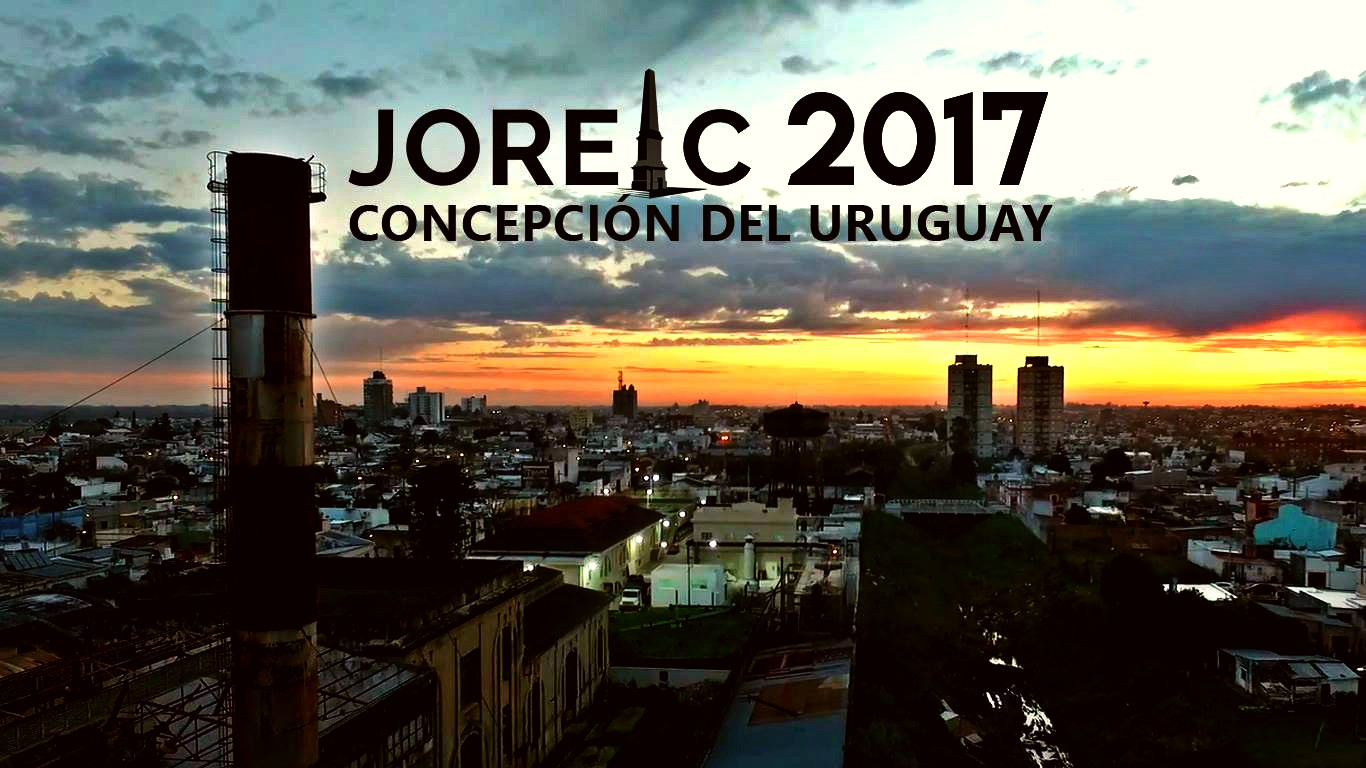
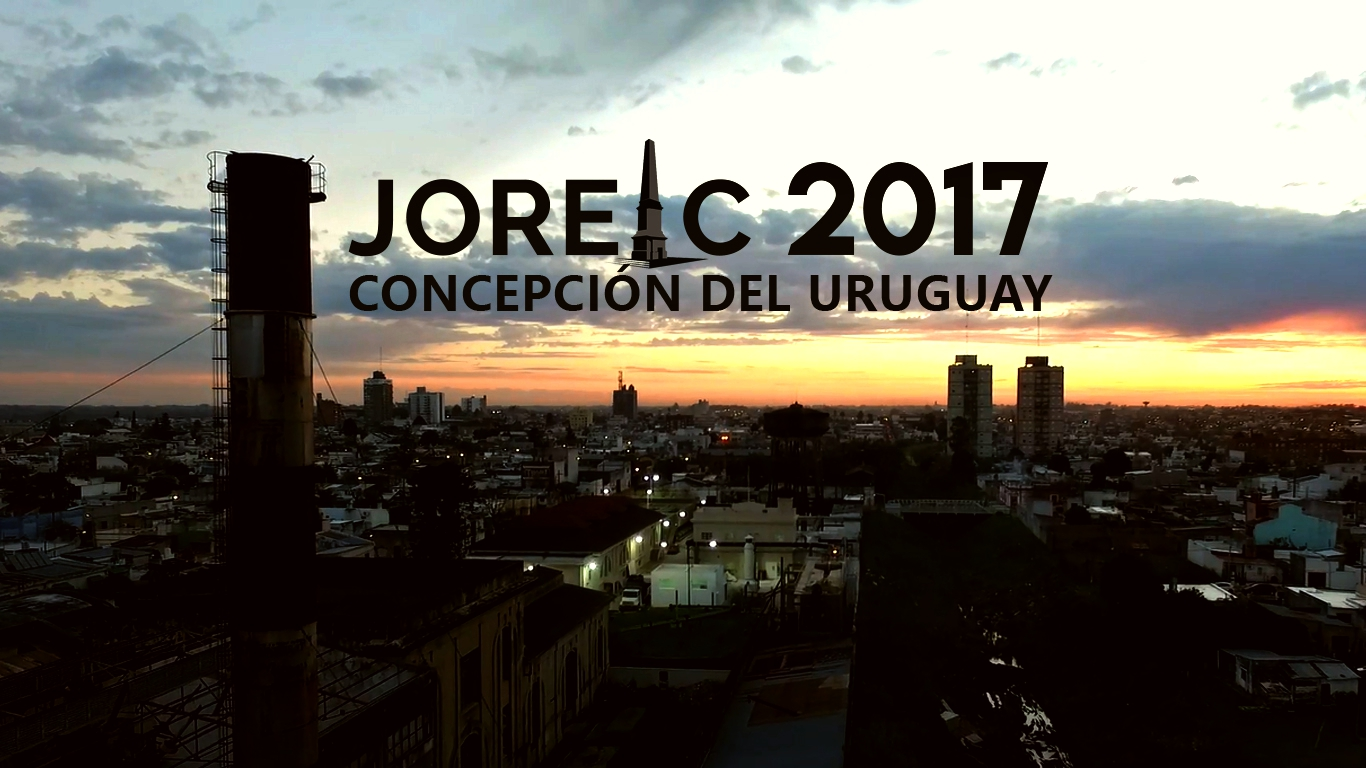
General corrections.
- Ortografic and grammar corrections.
- Text and heading style modified.
- Slider image fixed.

diff --git a/index.html b/index.html
@@ -3,9 +3,10 @@
 <head>
     <meta charset="utf-8">
     <meta http-equiv="X-UA-Compatible" content="IE=edge">
-    <meta name="JOREIC 2017" content="width=device-width, initial-scale=1">
-    <meta name="Sitio web JOREIC 2017" content="">
-    <meta name="" content="">
+    <meta name="viewport" content="width=device-width, initial-scale=1">
+    <meta name="description" content="Sitio web de JOREIC 2017, llevado a cabo por ANEIC Concepción del Uruguay">
+    <meta name="keywords" lang="es" content="jornada, ingeniería, civil, aneic, concepción, uruguay, construcción, madera, ambiental">
+    <META name="author" content="ANEIC Concepción del Uruguay">
     <title>JOREIC 2017 - Concepción del Uruguay</title>
     <link rel="shortcut icon" href="img/logos/favicon-96x96.ico" type="image/x-icon">
     <!-- Bootstrap Core CSS -->
@@ -29,7 +30,7 @@
             <!-- Brand and toggle get grouped for better mobile display -->
             <div class="navbar-header page-scroll">
                 <button type="button" class="navbar-toggle" data-toggle="collapse" data-target="#bs-example-navbar-collapse-1">
-                    <span class="sr-only">Toggle navigation</span> Menu <i class="fa fa-bars"></i>
+                    <span class="sr-only">Toggle navigation</span> Menú <i class="fa fa-bars"></i>
                 </button>
                 <a class="navbar-brand page-scroll" href="#page-top" style="font-family: 'Raleway'">JOREIC</a>
             </div>
@@ -129,7 +130,7 @@
         <div class="container">
             <div class="row">
                 <div class="col-lg-12 text-center">
-                    <h2 class="section-heading text-primary">Quienes somos</h2>
+                    <h2 id="about-title" class="section-heading text-primary">Quiénes somos</h2>
                     <h3 class="section-subheading text-muted">ANEIC Concepción del Uruguay</h3>
                 </div>
                 <div class="row">
@@ -137,11 +138,10 @@
                         <img class="img-responsive" src="img/logos/aneic.jpg"  alt="ANEIC-CdU">
                     </div>
                     <div class="col-lg-8">
-                        <p class="text-muted text-justify">La Asociación Nacional de Estudiantes de Ingeniería Civil (ANEIC) es una organización conformada por estudiantes de ingeniería civil de todo el país; es autónoma, de carácter científico, tecnológico y cultural, sin fines de lucro y ajena a toda actividad política, partidaria o religiosa.</p>
-                        <p class="text-muted text-justify">ANEIC ARGENTINA se posiciona como una agrupación reconocida en la comunidad social, empresarial y universitaria, como referente nacional e internacional de integración, perfeccionamiento y potenciación de los estudiantes de nuestra carrera. Promover la integración académica de todos los estudiantes de ingeniería civil, mediante la planificación, organización y ejecución de eventos nacionales abocados a actividades académicas, de investigación, culturales y deportivas, como así también participar responsablemente en los
+                        <p class=" text-justify">La Asociación Nacional de Estudiantes de Ingeniería Civil (ANEIC) es una organización conformada por estudiantes de ingeniería civil de todo el país; es autónoma, de carácter científico, tecnológico y cultural, sin fines de lucro y ajena a toda actividad política, partidaria o religiosa.</p>
+                        <p class=" text-justify">ANEIC ARGENTINA se posiciona como una agrupación reconocida en la comunidad social, empresarial y universitaria, como referente nacional e internacional de integración, perfeccionamiento y potenciación de los estudiantes de nuestra carrera. Promover la integración académica de todos los estudiantes de ingeniería civil, mediante la planificación, organización y ejecución de eventos nacionales abocados a actividades académicas, de investigación, culturales y deportivas, como así también participar responsablemente en los
 procesos que afectan a la profesión y la sociedad.</p>
-                        <p class="text-muted text-justify">La filial ANEIC CdelU (Concepción del Uruguay) se trata de una organización local ubicada en la región este conformada a principios del año 2016. Dicha filial tiene como objetivo representar a ANEIC Argentina de forma tal que los
-estudiantes tengan conocimiento de la existencia de dicha asociación y que finalmente sean parte de la misma.</p>
+                        <p class=" text-justify">La filial ANEIC CdelU (Concepción del Uruguay) se trata de una organización local ubicada en la región Este conformada a principios del año 2016. Dicha filial tiene como objetivo representar a ANEIC Argentina de forma tal que los estudiantes tengan conocimiento de la existencia de dicha asociación y que finalmente sean parte de la misma.</p>
                     </div>
                 </div>
             </div>
@@ -149,14 +149,14 @@ estudiantes tengan conocimiento de la existencia de dicha asociación y que fina
         <div class="container">
             <div class="row">
                 <div class="col-lg-12 text-center">
-                    <h2 class="section-heading text-primary">JOREIC</h2>
+                    <h2 id="about-title" class="section-heading text-primary">JOREIC</h2>
                     <h3 class="section-subheading text-muted">Jornada Regional de Estudiantes de Ingeniería Civil</h3>
                 </div>
                 <div class="row">
                     <div class="col-lg-8">
-                        <p class="text-muted text-justify">La Jornada Regional de Estudiantes de Ingeniería Civil (JOREIC) es una actividad académica, social y cultural en la que se tratan dos ejes temáticos, electos por comisión organizadora, expuestos por distintos profesionales.</p>
-                        <p class="text-muted text-justify">Anteriormente, se realizó la primer Jornada de la región, la cual tuvo lugar en la Ciudad Autónoma de Buenos Aires, esto fue un disparador para que la organización siga creciendo y afianzándose. Gracias a esto, la filial de Concepción del Uruguay se postuló y fue seleccionada para la Segunda Jornada de la Región Este a desarrollarse en la ciudad de Concepción del Uruguay los días 18, 19 y 20 de mayo del año 2017.</p>
-                        <p class="text-muted text-justify"></p>
+                        <p class=" text-justify">La Jornada Regional de Estudiantes de Ingeniería Civil (JOREIC) es una actividad académica, social y cultural en la que se tratan dos ejes temáticos, electos por comisión organizadora, expuestos por distintos profesionales.</p>
+                        <p class=" text-justify">Anteriormente, se realizó la primer Jornada de la región, la cual tuvo lugar en la Ciudad Autónoma de Buenos Aires, esto fue un disparador para que la organización siga creciendo y afianzándose. Gracias a esto, la filial de Concepción del Uruguay se postuló y fue seleccionada para la Segunda Jornada de la Región Este a desarrollarse en la ciudad de Concepción del Uruguay los días 18, 19 y 20 de mayo del año 2017.</p>
+                        <p class=" text-justify"></p>
                     </div>
                     <div class="col-lg-4">
                         <img class="img-responsive" src="img/logos/joreic.png"  alt="JOREIC-2017">
@@ -340,7 +340,7 @@ estudiantes tengan conocimiento de la existencia de dicha asociación y que fina
                             </div>
                             <div class="timeline-panel">
                                 <div class="timeline-heading">
-                                    <h4>Disertaciones – Madera en la Construccion</h4>
+                                    <h4>Disertaciones – Madera en la Construcción<h4>
                                 </div>
                                 <div class="timeline-body">
                                     <p class="text-muted">Fecha: Sábado 20 – 14 a 19hs</p>
@@ -428,7 +428,7 @@ estudiantes tengan conocimiento de la existencia de dicha asociación y que fina
                             <div class="col-md-6">
                                 <div class="form-group">
                                     <h4 class="text-primary">Nombre</h4>
-                                    <input type="text" class="form-control" placeholder="Nombre*" id="name" required data-validation-required-message="Por favor, ingrese su nombre.">
+                                    <input type="text" class="form-control" placeholder="Nombre *" id="name" required data-validation-required-message="Por favor, ingrese su nombre.">
                                     <p class="help-block text-danger"></p>
                                 </div>
                                 <div class="form-group">

diff --git a/formulario.html b/formulario.html
@@ -3,10 +3,11 @@
 <head>
     <meta charset="utf-8">
     <meta http-equiv="X-UA-Compatible" content="IE=edge">
-    <meta name="JOREIC 2017" content="width=device-width, initial-scale=1">
-    <meta name="Sitio web JOREIC 2017" content="">
-    <meta name="" content="">
-    <title>JOREIC 2017 - Concepción del Uruguay</title>
+    <meta name="viewport" content="width=device-width, initial-scale=1">
+    <meta name="description" content="Sitio web de JOREIC 2017, llevado a cabo por ANEIC Concepción del Uruguay">
+    <meta name="keywords" lang="es" content="jornada, ingeniería, civil, aneic, concepción, uruguay, construcción, madera, ambiental">
+    <META name="author" content="Luis Fiorotto">
+    <title>Formulario no disponible</title>
     <link rel="shortcut icon" href="img/logos/favicon-96x96.ico" type="image/x-icon">
     <!-- Bootstrap Core CSS -->
     <link href="vendor/bootstrap/css/bootstrap.min.css" rel="stylesheet">
@@ -88,14 +89,8 @@
             <div class="row">
                 <div class="col-md-4">
                     <span class="copyright">
-                        <h4 class="text-center text-muted">Diseño y Desarrollo</h4>
-                    <ul class="list-inline quicklinks text-center">
-                        <li><a class="text-info" href="https://github.com/Lef-t" target="_blank">Luis Fiorotto</a>
-                        </li>
-                        <li><a class="text-info" href="https://github.com/Fenwil" target="_blank">Leonardo Galante</a>
-                        </li>
-                    </ul> 
-                    <p class="text-muted">Site created under the <a class="text-info" href="LICENSE" target="_blank">MIT license</a> <i class="fa fa-copyright" ></i></p>
+                        <p class="text-muted"><a class="text-info" href="FAQ.html" target="_blank">FAQ - Diseño y Desarrollo</a> <i class="fa fa-asterisk" ></i></p>
+                    <p class="text-muted">Site created under the <a class="text-info" href="license.html" target="_blank">MIT license</a> <i class="fa fa-copyright" ></i></p>
                     </span>
                 </div>
                 <div class="col-md-4">
@@ -104,12 +99,12 @@
                         </li>
                         <li><a href="https://www.facebook.com/AneicCdelU/?fref=ts" target="_blank"><i class="fa fa-facebook"></i></a>
                         </li>
-                        <li><a href="https://www.youtube.com/watch?v=HEXWRTEbj1I" target="_blank"><i class="fa fa-heart"></i></a>
+                        <li><a href="#"><i class="fa fa-heart"></i></a>
                         </li>
                     </ul>
                 </div>
                 <div class="col-md-4">
-                    <h4 class="text-center text-muted">Enlaces externos</h4>
+                    
                     <ul class="list-inline quicklinks">
                         <li><a class="text-info" href="http://www.aneicargentina.com.ar/aneic-1" target="_blank">ANEIC Argentina</a>
                         </li>

diff --git a/FAQ.html b/FAQ.html
@@ -3,10 +3,11 @@
 <head>
     <meta charset="utf-8">
     <meta http-equiv="X-UA-Compatible" content="IE=edge">
-    <meta name="JOREIC 2017" content="width=device-width, initial-scale=1">
-    <meta name="Sitio web JOREIC 2017" content="">
-    <meta name="" content="">
-    <title>FAQ: Desarrollo</title>
+    <meta name="viewport" content="width=device-width, initial-scale=1">
+    <meta name="description" content="Sitio web de JOREIC 2017, llevado a cabo por ANEIC Concepción del Uruguay">
+    <meta name="keywords" lang="es" content="jornada, ingeniería, civil, aneic, concepción, uruguay, construcción, madera, ambiental">
+    <META name="author" content="Luis Fiorotto">
+    <title>FAQ -Diseño y desarrollo</title>
     <link rel="shortcut icon" href="img/logos/favicon-96x96.ico" type="image/x-icon">
     <!-- Bootstrap Core CSS -->
     <link href="vendor/bootstrap/css/bootstrap.min.css" rel="stylesheet">
@@ -76,16 +77,9 @@
     <!-- Plugin JavaScript -->
     <script src="https://cdnjs.cloudflare.com/ajax/libs/jquery-easing/1.3/jquery.easing.min.js" integrity="sha384-mE6eXfrb8jxl0rzJDBRanYqgBxtJ6Unn4/1F7q4xRRyIw7Vdg9jP4ycT7x1iVsgb" crossorigin="anonymous"></script>
 
-    <!-- Contact Form JavaScript -->
-    <script src="js/jqBootstrapValidation.js"></script>
-    <script src="js/contact_me.js"></script>
-
     <!-- Theme JavaScript -->
     <script src="js/agency.min.js"></script>
 
-    <!-- Google Maps -->
-    <script src="js/map.js"></script>
-    <script src="https://maps.googleapis.com/maps/api/js?key=AIzaSyBrcS3DGZO_ouHE3XX3vItMZrbOnIEpgnc"></script>
 
 </body>
 

diff --git a/license.html b/license.html
@@ -3,10 +3,11 @@
 <head>
     <meta charset="utf-8">
     <meta http-equiv="X-UA-Compatible" content="IE=edge">
-    <meta name="JOREIC 2017" content="width=device-width, initial-scale=1">
-    <meta name="Sitio web JOREIC 2017" content="">
-    <meta name="" content="">
-    <title>LICENSE</title>
+    <meta name="viewport" content="width=device-width, initial-scale=1">
+    <meta name="description" content="Sitio web de JOREIC 2017, llevado a cabo por ANEIC Concepción del Uruguay">
+    <meta name="keywords" lang="es" content="jornada, ingeniería, civil, aneic, concepción, uruguay, construcción, madera, ambiental">
+    <META name="author" content="Luis Fiorotto">
+    <title>LICENCIA</title>
     <link rel="shortcut icon" href="img/logos/favicon-96x96.ico" type="image/x-icon">
     <!-- Bootstrap Core CSS -->
     <link href="vendor/bootstrap/css/bootstrap.min.css" rel="stylesheet">
@@ -59,16 +60,8 @@ THE SOFTWARE.</p>
     <!-- Plugin JavaScript -->
     <script src="https://cdnjs.cloudflare.com/ajax/libs/jquery-easing/1.3/jquery.easing.min.js" integrity="sha384-mE6eXfrb8jxl0rzJDBRanYqgBxtJ6Unn4/1F7q4xRRyIw7Vdg9jP4ycT7x1iVsgb" crossorigin="anonymous"></script>
 
-    <!-- Contact Form JavaScript -->
-    <script src="js/jqBootstrapValidation.js"></script>
-    <script src="js/contact_me.js"></script>
-
     <!-- Theme JavaScript -->
     <script src="js/agency.min.js"></script>
-
-    <!-- Google Maps -->
-    <script src="js/map.js"></script>
-    <script src="https://maps.googleapis.com/maps/api/js?key=AIzaSyBrcS3DGZO_ouHE3XX3vItMZrbOnIEpgnc"></script>
 
 </body>
 

diff --git a/css/agency.css b/css/agency.css
@@ -13,7 +13,7 @@ body {
   color: #fed136;
 }
 p {
-  font-size: 14px;
+  font-size: 16px;
   line-height: 1.75;
 }
 p.large {
@@ -641,6 +641,9 @@ section#contact :-ms-input-placeholder {
 }
 section#contact .text-danger {
   color: #e74c3c;
+}
+h2#about-title{
+    color:#e7b201;
 }
 footer {
   padding: 0 0;
